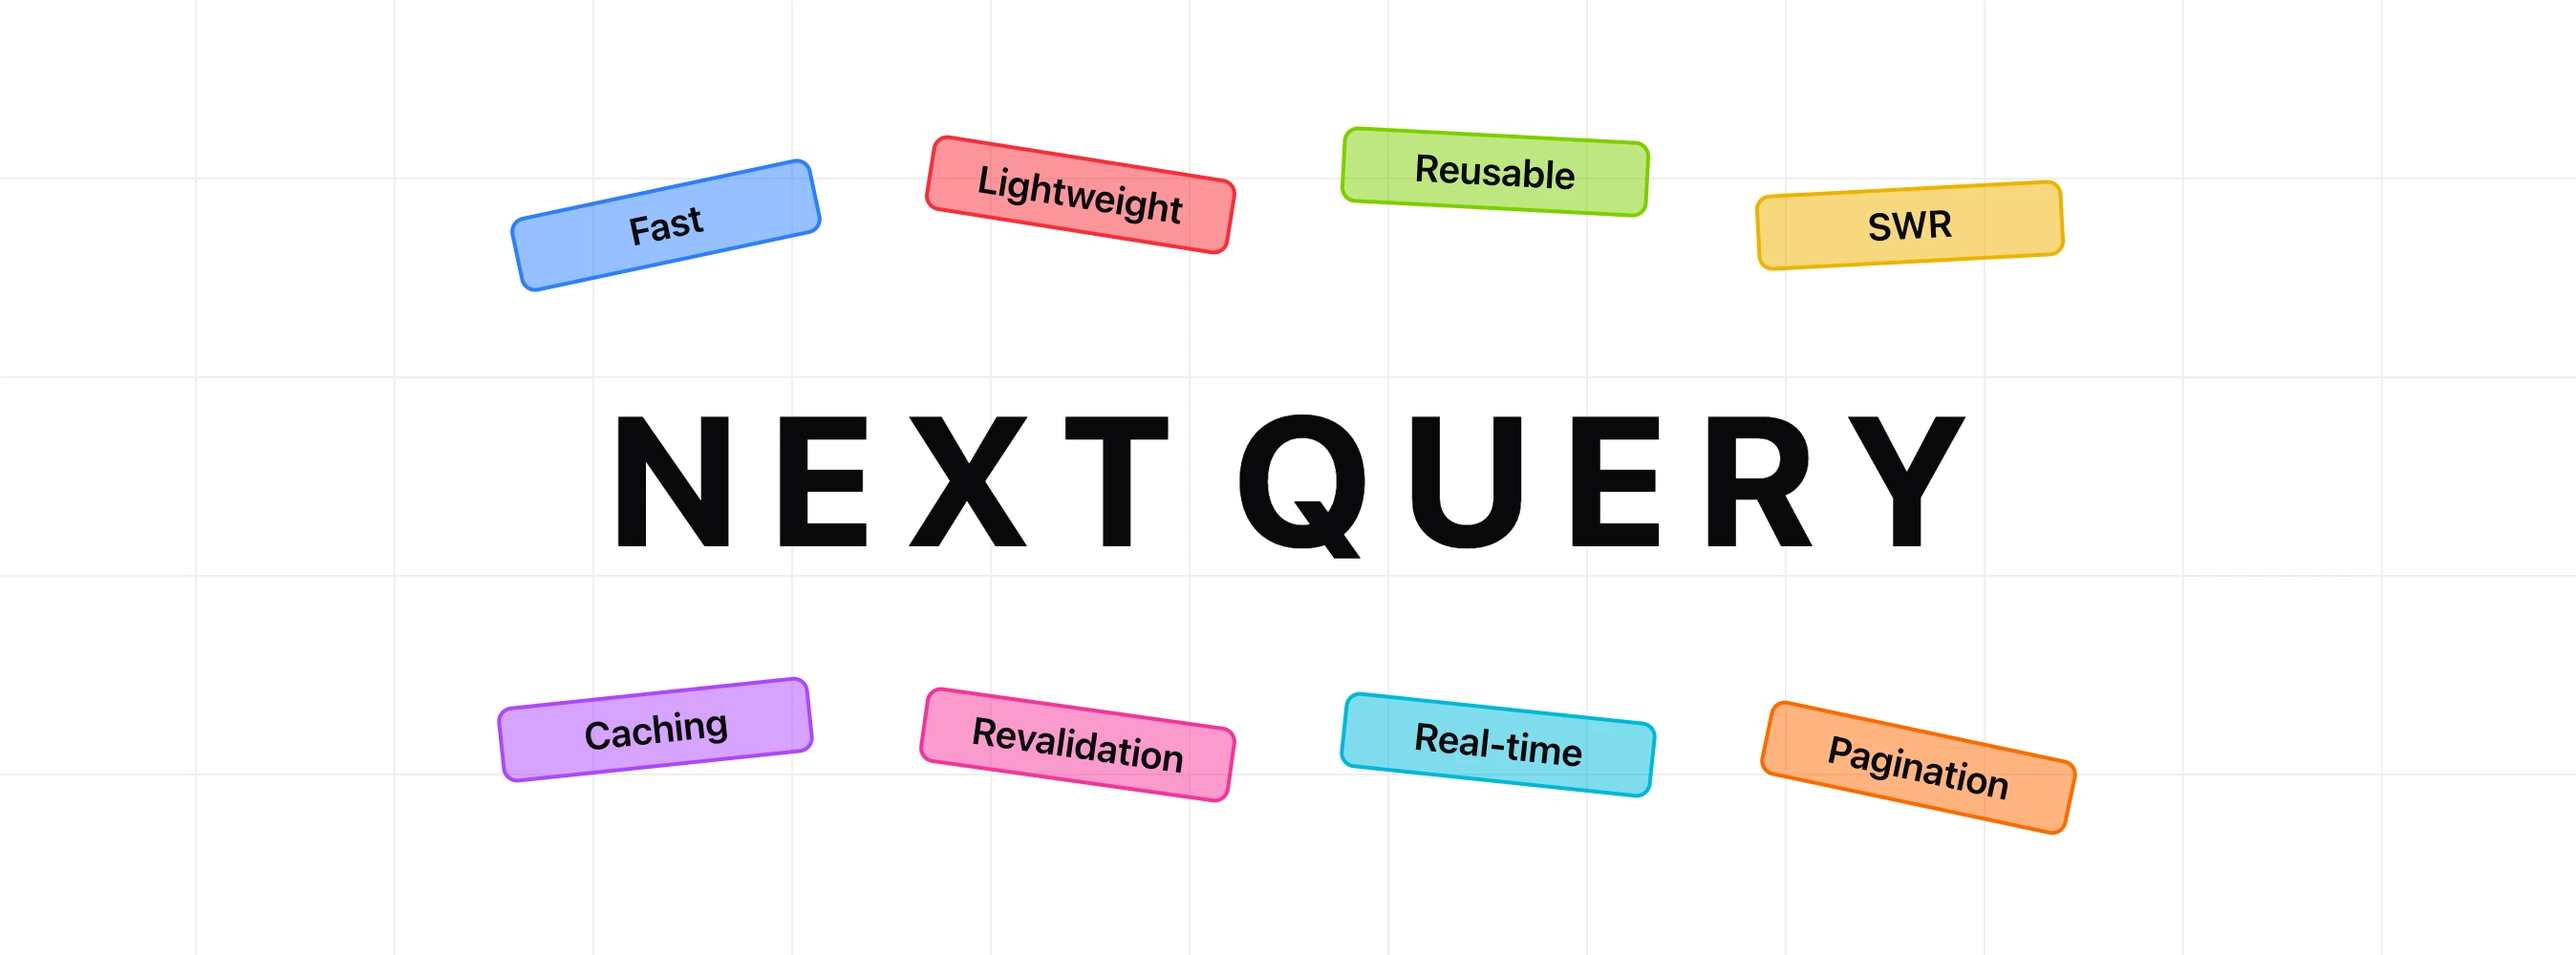
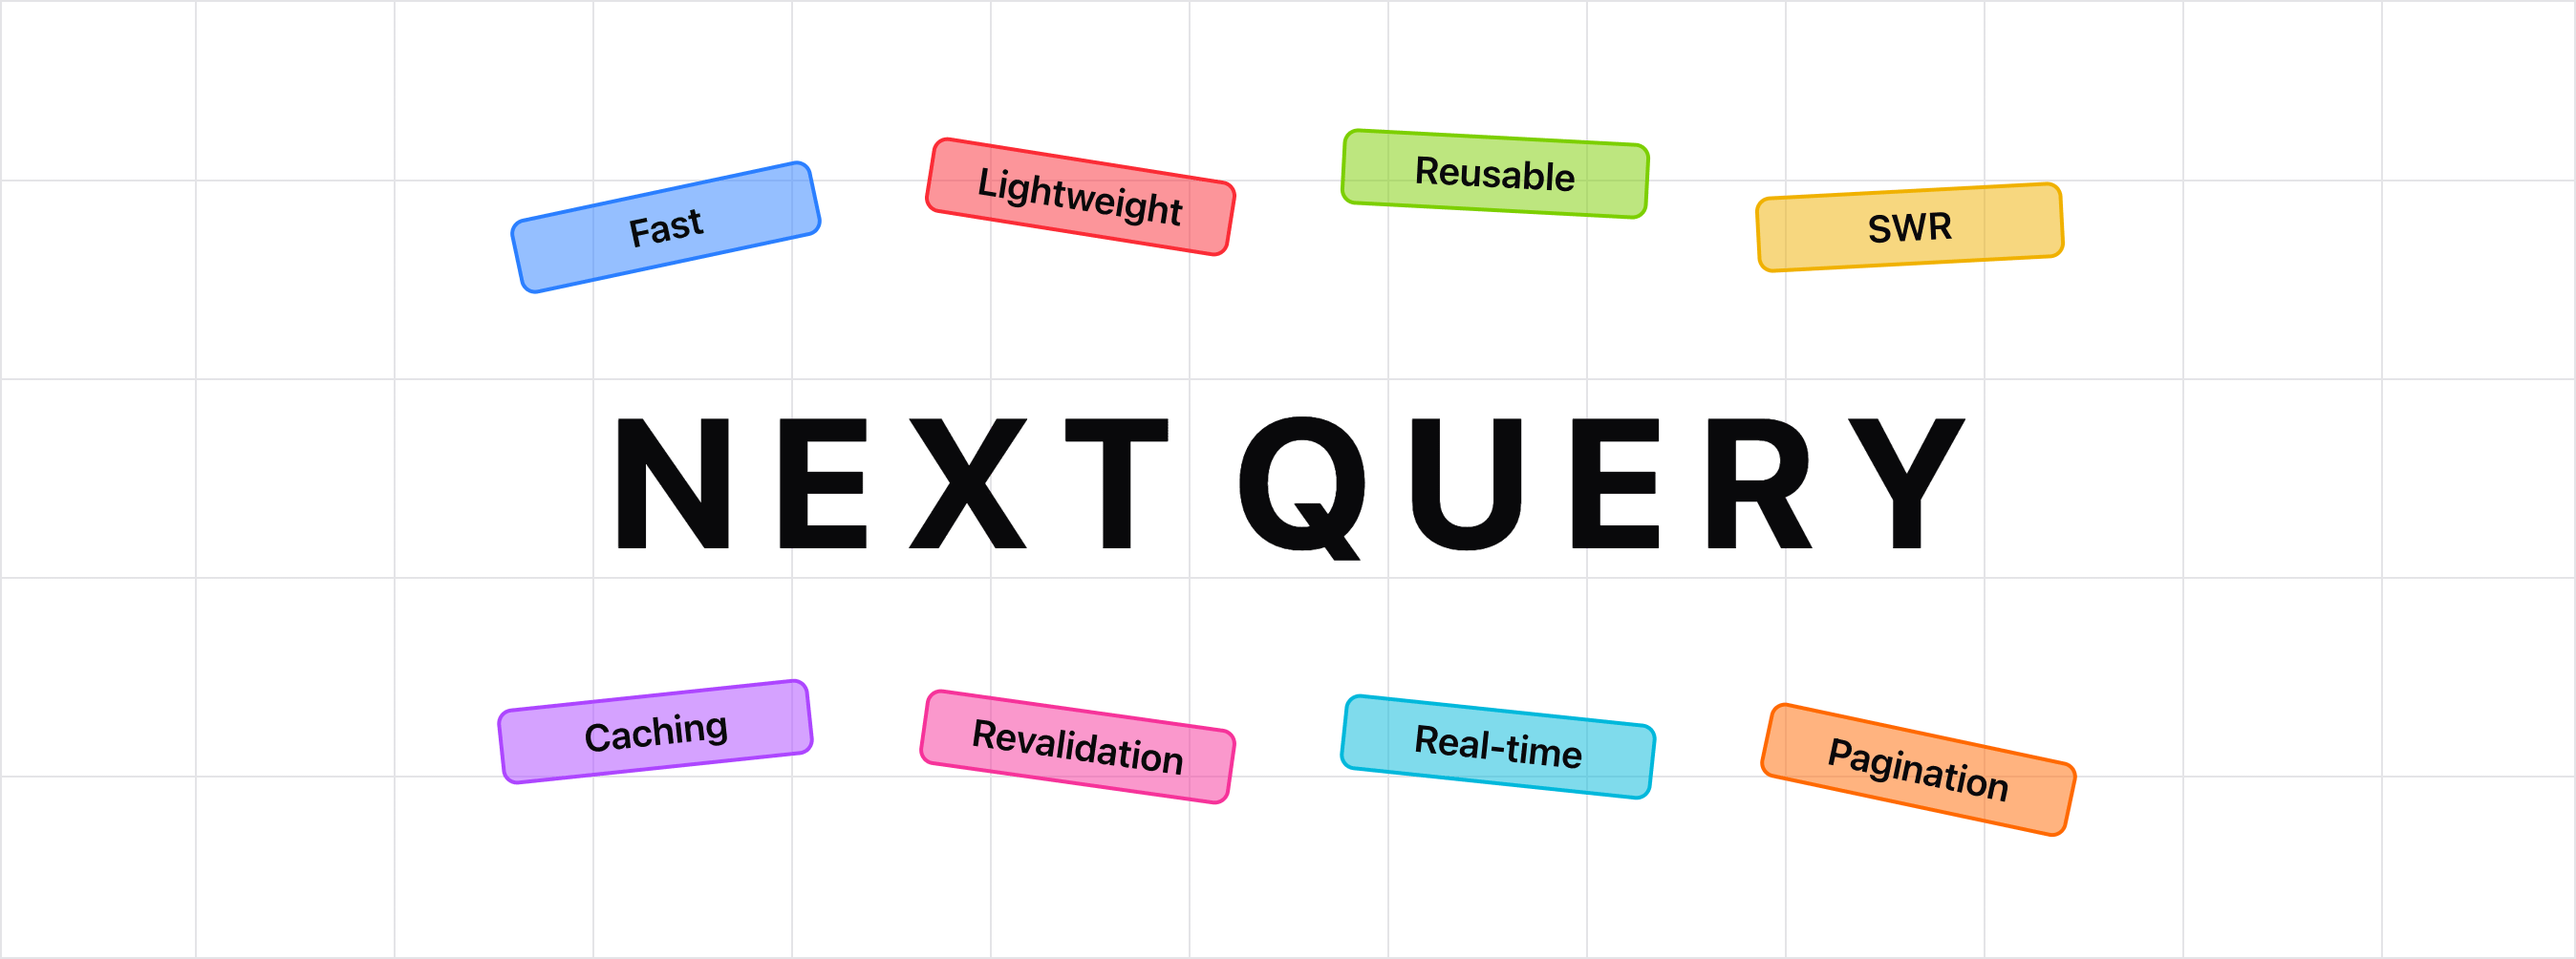
chore(package): updated README.md

diff --git a/web/src/app/(routes)/(index)/_components/hero/hero.tsx b/web/src/app/(routes)/(index)/_components/hero/hero.tsx
@@ -1,12 +1,9 @@
-// "use client";
 import { cn } from "@/shadcn/lib/utils";
-// import { SaveAsImage } from "@/main/wrappers/save-as-image";
 
 export default async function HomeHero() {
   const tags = ["Fast", "Lightweight", "Reusable", "SWR", "Caching", "Revalidation", "Real-time", "Pagination"];
 
   return (
-    // <SaveAsImage>
     <div className="flex flex-1 flex-col items-center border-b">
       <div className="flex flex-1 flex-col items-center justify-center overflow-hidden square-grid-bg bg-background">
         <div className="w-full flex items-center justify-center min-h-[600px] md:min-h-[500px]">
@@ -18,7 +15,6 @@ export default async function HomeHero() {
         </div>
       </div>
     </div>
-    // </SaveAsImage>
   );
 }
 

diff --git a/README.md b/README.md
@@ -1,7 +1,13 @@
-[![Next Query](https://raw.githubusercontent.com/bigbang-sdk/assets/refs/heads/main/hero-banners/hero-dark.webp)](https://query.bigbang.build/)
+<a aria-lable="Next Query" href="https://query.bigbang.build/">
+<picture>
+<source srcset="https://raw.githubusercontent.com/bigbang-sdk/assets/refs/heads/main/hero-banners/hero-dark.webp" media="(prefers-color-scheme: dark)" />
+<source srcset="https://raw.githubusercontent.com/bigbang-sdk/assets/refs/heads/main/hero-banners/hero-light.webp" media="(prefers-color-scheme: light)" />
+<img src="https://raw.githubusercontent.com/bigbang-sdk/assets/refs/heads/main/hero-banners/hero-light.webp" alt="Fetch Pattern" referrerpolicy="no-referrer-when-downgrade" />
+</picture>
+</a>
 
 <p align="center">
-  <a aria-label="Vercel logo" href="https://query.bigbang.build/">
+  <a aria-label="Bigbang logo" href="https://query.bigbang.build/">
     <img src="https://badgen.net/badge/icon/Made%20by%20Bigbang?icon=https://raw.githubusercontent.com/bigbang-sdk/assets/refs/heads/main/logo/logo-white.svg&label&color=black&labelColor=black">
   </a>
   <br/>
